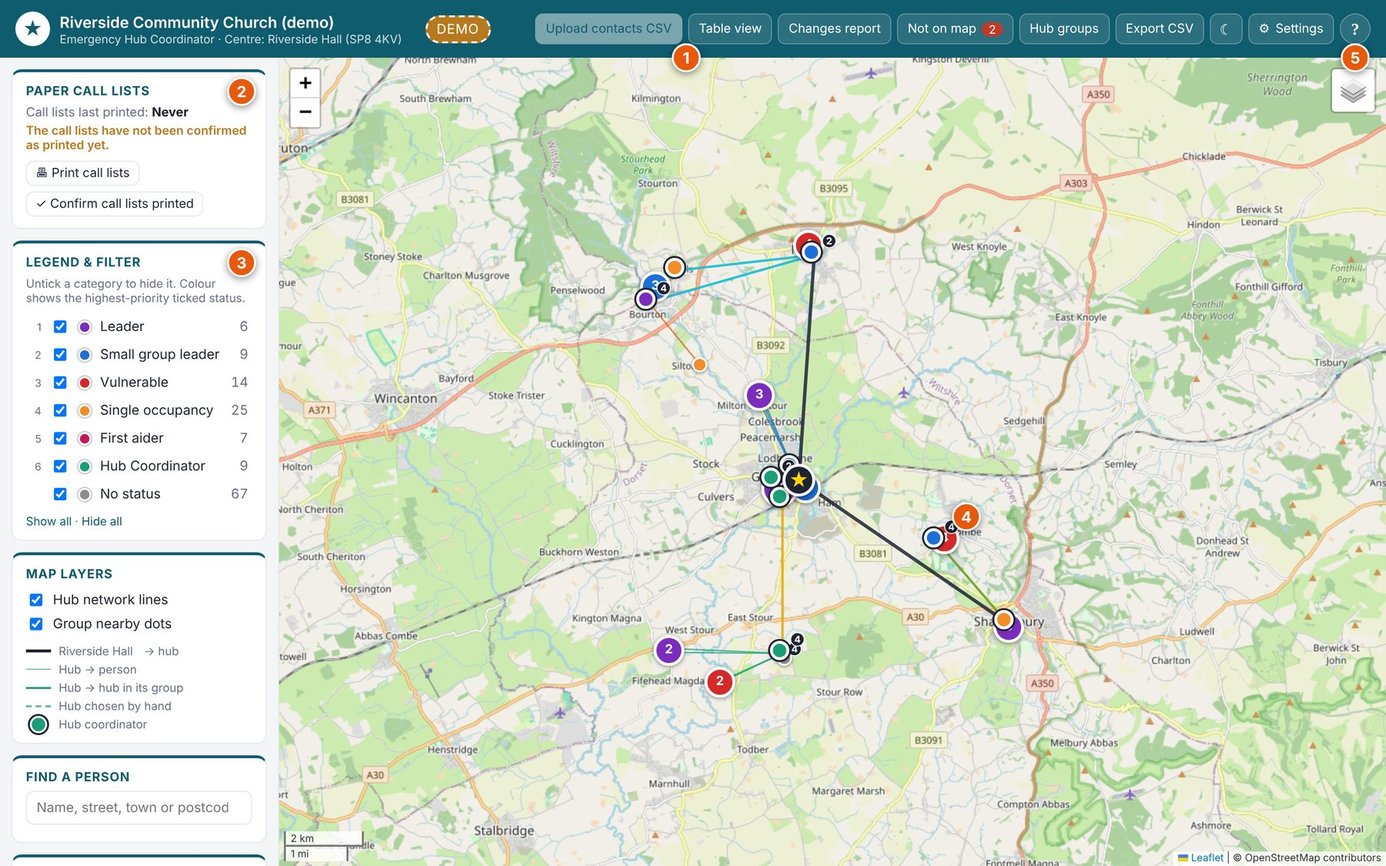
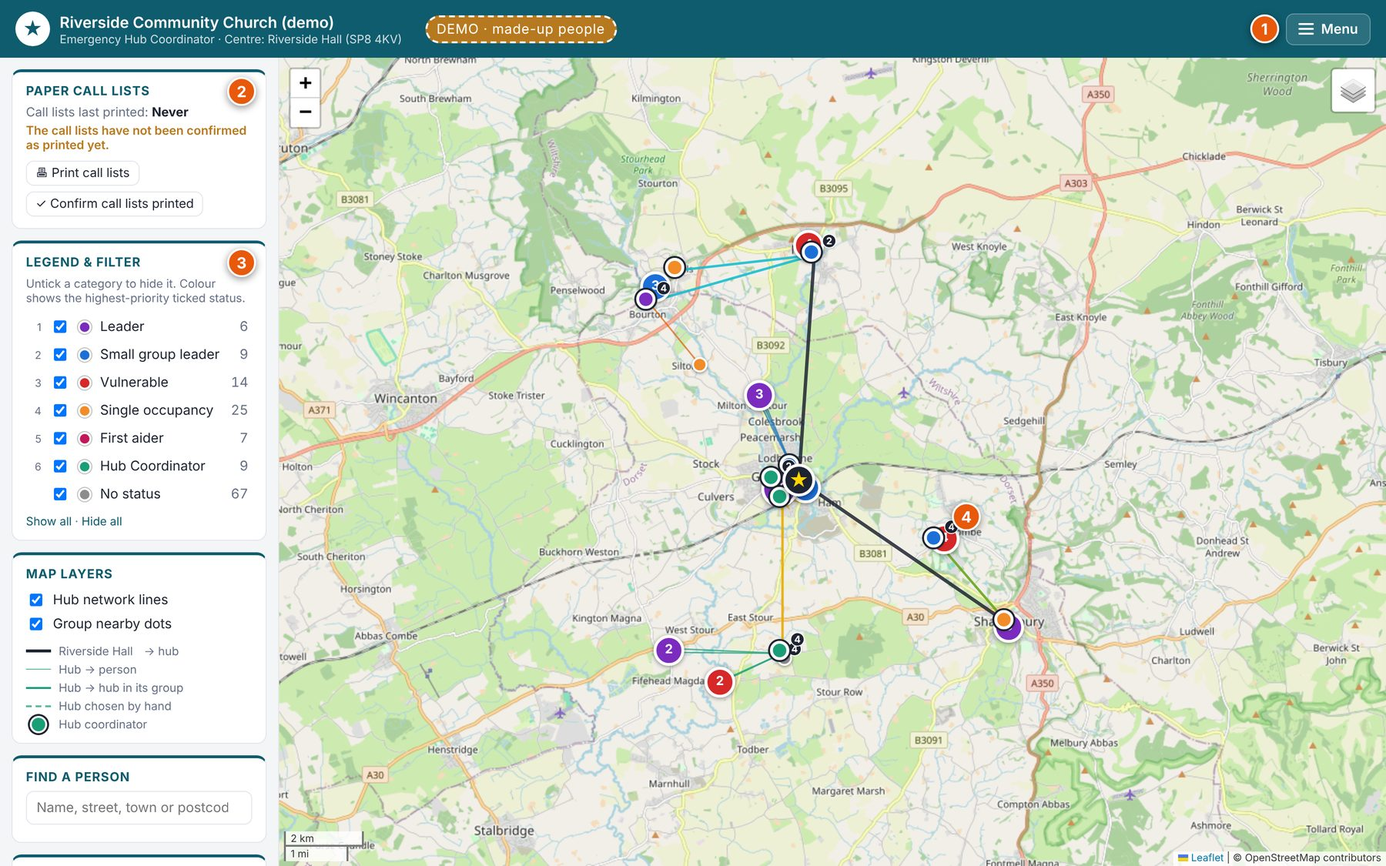
Move the title bar buttons into a menu (1.2.0)
All the title bar buttons now live in one Menu in the top right, grouped
into Contacts, Planning, and Settings / dark mode / lock / help. It works
with the keyboard (arrow keys, Home/End, Esc), closes when you click
elsewhere, and shows the update dot. Help text, README and the quick start
screenshots are updated to match.

Claude-Session: https://claude.ai/code/session_012zfS9wvSQnExLN71sEG4rP

Changed region(s): [[0.3422, 0.0, 0.9956, 0.0933]]

diff --git a/app/static/help.js b/app/static/help.js
@@ -20,6 +20,9 @@
         <p>The first time the app opens, it shows a made-up church called Riverside Community Church. Nobody in it is real, so you can click around,
         tick boxes and move people between hubs without worrying about anything. The orange <b>DEMO</b> badge in the title bar tells you when you're looking at it.</p>
         {{fig:overview}}
+        <p>Everything else lives in the <b>Menu</b> button in the top right corner: bringing in contacts, the hub groups, the table view, reports,
+        settings and this help.</p>
+        {{fig:menu}}
         <p>Click a dot to see who lives there and open their card. Where dots are close together they're gathered into a numbered circle,
         and clicking that splits it into the separate households. The lines show the plan: a thick line from the church to each hub coordinator, then thinner lines from each
         hub coordinator to the people they'll phone.</p>`,
@@ -53,16 +56,16 @@
         <p>There are two ways to do this.</p>
         <ul>
           <li><b>Upload a CSV file.</b> Export your address list from your church database or spreadsheet as a CSV file, then click
-          <b>Upload contacts CSV</b> in the title bar or drag the file onto the page. First and last names are essential, and addresses,
+          <b>Upload contacts CSV</b> in the menu, or drag the file onto the page. First and last names are essential, and addresses,
           postcodes and phone numbers make it useful. There's an example, <i>contacts-template.csv</i>, in the <i>app</i> folder,
           and the FAQ explains <a data-faq="csv">which columns it understands</a>.</li>
           <li><b>Connect ChurchSuite.</b> If your church uses ChurchSuite, the app can fetch the list for you. You set it up once in
           <a data-act="settings:data">Settings &rarr; Data &amp; privacy</a>, choose which tags to include, and from then on click
-          <b>Sync from ChurchSuite</b> whenever you want the latest list. The FAQ has <a data-faq="churchsuite">step-by-step instructions for connecting it</a>.</li>
+          <b>Sync from ChurchSuite</b> in the menu whenever you want the latest list. The FAQ has <a data-faq="churchsuite">step-by-step instructions for connecting it</a>.</li>
         </ul>
         <p>Either way, the app looks up each postcode to put people on the map, then shows you a report of who was added, removed or changed.</p>
         {{fig:changes-report}}
-        <p>Afterwards, click <a data-act="unmapped">Not on map</a> in the title bar. It lists anyone the app couldn't place, usually because of a missing or
+        <p>Afterwards, choose <a data-act="unmapped">Not on map</a> from the menu. It lists anyone the app couldn't place, usually because of a missing or
         mistyped postcode. Fix the address in your church database so it's right next time, or open the person's card and use <b>Place on map by hand</b>.</p>`,
     },
     {
@@ -127,12 +130,12 @@
     overview: {
       src: 'help/overview.jpg', alt: 'The main screen showing the demo church on a map',
       caption: `<ol class="help-callouts">
-        <li>The title bar, for bringing in contacts, the table view, reports, hub groups and settings.</li>
+        <li>The menu, for bringing in contacts, hub groups, the table view, reports, settings and help.</li>
         <li>The Paper call lists box, with the date the lists were last printed.</li>
         <li>The legend. Untick a status to hide those people from the map.</li>
-        <li>Each dot is a household, coloured by the most important status of anyone living there.</li>
-        <li>Help, which is where you are now.</li></ol>`,
+        <li>Each dot is a household, coloured by the most important status of anyone living there.</li></ol>`,
     },
+    menu: { w: 300, src: 'help/menu.jpg', alt: 'The menu open, listing everything the app can do', caption: 'The menu, opened from the top right corner.' },
     'demo-switch': { src: 'help/demo-switch.jpg', alt: 'The Demo mode section of the settings', caption: 'The demo switch is at the top of the Data &amp; privacy tab.' },
     'settings-org': { src: 'help/settings-org.jpg', alt: 'The Organisation details tab of the settings', caption: 'Your church\'s name, logo and central hub.' },
     'changes-report': { src: 'help/changes-report.jpg', alt: 'A changes report after loading a contact list', caption: 'After every upload or sync you get a report like this. Older ones are kept under Changes report.' },
@@ -166,7 +169,7 @@
           id: 'backup', q: 'How should we back it up?',
           a: `<p>Copy the whole <b>data</b> folder somewhere safe, ideally an encrypted USB stick or another computer you trust. To restore it, close the black
             server window, copy the folder back and start the app again.</p>
-            <p><b>Export CSV</b> in the title bar also gives you a spreadsheet of everyone with their statuses, hub and notes. That's handy for checking things,
+            <p><b>Export CSV</b> in the menu also gives you a spreadsheet of everyone with their statuses, hub and notes. That's handy for checking things,
             but the file isn't encrypted, so delete it when you've finished with it.</p>`,
         },
         {
@@ -174,7 +177,7 @@
           a: `<p>If you're recording anything sensitive, such as who is vulnerable, then yes. Encryption scrambles the files in the data folder (including the
             backups and your ChurchSuite details), so they're useless to anyone who gets hold of the computer or its drive.</p>
             <p>Once it's on, the app asks for the passphrase each time it starts, and locks itself if nobody uses it for a while (30 minutes unless you change it).
-            You can also lock it straight away with the padlock button. Turn it on in <a data-act="settings:data">Settings &rarr; Data &amp; privacy</a>.</p>`,
+            You can also lock it straight away with <b>Lock now</b> in the menu. Turn it on in <a data-act="settings:data">Settings &rarr; Data &amp; privacy</a>.</p>`,
         },
         {
           id: 'forgot', q: 'What happens if we forget the passphrase?',
@@ -246,7 +249,7 @@
             <b>Client ID</b> and <b>Client Secret</b> for that user. Paste both into <a data-act="settings:data">Settings &rarr; Data &amp; privacy</a> and click
             <b>Connect to ChurchSuite</b>.</p>
             <p>The app then shows your ChurchSuite tags. Tick the ones that should be included (anyone with any ticked tag is fetched), and use
-            <b>Sync from ChurchSuite</b> in the title bar whenever you want the latest list. The link only reads from ChurchSuite and never changes anything there.
+            <b>Sync from ChurchSuite</b> in the menu whenever you want the latest list. The link only reads from ChurchSuite and never changes anything there.
             The secret is stored on this computer only.</p>`,
         },
         {
@@ -284,7 +287,7 @@
         },
         {
           id: 'not-on-map', q: 'Why isn\'t someone on the map?',
-          a: `<p>Usually their postcode is missing, mistyped or out of date. <a data-act="unmapped">Not on map</a> in the title bar lists everyone who couldn't be
+          a: `<p>Usually their postcode is missing, mistyped or out of date. <a data-act="unmapped">Not on map</a> in the menu lists everyone who couldn't be
             placed, along with anyone whose position is only approximate. The best fix is to correct the address in your church database, so it's right on the
             next upload. For a quick fix, open their card and use <b>Place on map by hand</b>, then click where they live.</p>`,
         },
@@ -308,8 +311,8 @@
         },
         {
           id: 'map-style', q: 'Can I see a satellite view, or a dark map?',
-          a: `<p>Use the layers button in the top right corner of the map to switch between the street map and satellite. The moon and sun button in the title bar
-            switches between light and dark. In <a data-act="settings:look">Settings &rarr; Look and feel</a> you can keep the map light while the rest goes dark,
+          a: `<p>Use the layers button in the top right corner of the map to switch between the street map and satellite. <b>Dark mode</b> (or <b>Light mode</b>) in the menu
+            switches between the two. In <a data-act="settings:look">Settings &rarr; Look and feel</a> you can keep the map light while the rest goes dark,
             or the other way round.</p>`,
         },
       ],
@@ -394,7 +397,7 @@
       items: [
         {
           id: 'updates', q: 'How do I get new versions?',
-          a: `<p>The app checks once a day whether a new version has been published, and when there is one, an orange dot appears on the Settings button.
+          a: `<p>The app checks once a day whether a new version has been published, and when there is one, an orange dot appears on the Menu button and next to Settings.
             Go to <a data-act="settings:about">Settings &rarr; About &amp; updates</a> to read what's new and click <b>Install</b>. It downloads the new version,
             restarts itself and reloads the page, which takes less than a minute. You can also click <b>Check now</b> at any time, or turn the daily check off.</p>`,
         },
@@ -551,7 +554,7 @@
     openModal('Help', render(),
       '<button class="btn small" id="btnPrintQs" title="Print the quick start guide, with pictures">&#128438; Print the quick start guide</button>', 'helpmodal');
     try { localStorage.setItem('ehc.helpSeen', '1'); } catch (e) { /* ignore */ }
-    $('btnHelp').classList.remove('pulse');
+    $('btnMenu').classList.remove('pulse');
     const body = $('modalBody');
     body.querySelectorAll('[data-help-tab]').forEach((b) => b.addEventListener('click', () => setTab(b.dataset.helpTab)));
     body.addEventListener('click', (e) => {
@@ -608,7 +611,7 @@
       <div class="qs-intro">${stripLinks(QUICK_START_INTRO)}</div>
       <ol class="qs-toc">${QUICK_START.map((s) => `<li>${s.title}</li>`).join('')}</ol>
       ${QUICK_START.map((s, i) => `<section class="qs-step"><h2><span class="qs-num">${i + 1}</span>${s.title}</h2>${stripLinks(fill(s.html, true))}</section>`).join('')}
-      <div class="qs-outro">${stripLinks(QUICK_START_OUTRO).replace('The FAQ', 'The FAQ in the app (the ? button)')}</div>
+      <div class="qs-outro">${stripLinks(QUICK_START_OUTRO).replace('The FAQ', 'The FAQ in the app (Menu, then Help and quick start)')}</div>
     </div>`;
     const theme = document.documentElement.dataset.theme;
     document.documentElement.dataset.theme = 'light';
@@ -630,6 +633,6 @@
   btn.addEventListener('click', () => openHelp());
   const eh = $('btnEmptyHelp');
   if (eh) eh.addEventListener('click', () => openHelp('quick'));
-  try { if (!localStorage.getItem('ehc.helpSeen')) btn.classList.add('pulse'); } catch (e) { /* ignore */ }
+  try { if (!localStorage.getItem('ehc.helpSeen')) $('btnMenu').classList.add('pulse'); } catch (e) { /* ignore */ }
   window.EHCHelp = { open: openHelp, openFaq: (id) => { openHelp('faq'); openFaq(id); }, printQuickStart };
 }());

diff --git a/app/static/app.js b/app/static/app.js
@@ -239,8 +239,10 @@ function applyTheme(theme) {
   applyMapTheme((SETTINGS && SETTINGS.map_theme) || 'auto', theme);
   const dark = theme === 'dark';
   applyAccent((SETTINGS && SETTINGS.accent_color) || '#23395D', theme);
-  $('btnTheme').innerHTML = dark ? '&#9728;' : '&#9790;';
-  $('btnTheme').title = dark ? 'Switch to light mode' : 'Switch to dark mode';
+  $('btnTheme').querySelector('.mi-text').textContent = dark ? 'Light mode' : 'Dark mode';
+  $('btnTheme').querySelector('.mi-ic').innerHTML = dark
+    ? '<circle cx="12" cy="12" r="4"/><path d="M12 2.5v2M12 19.5v2M2.5 12h2M19.5 12h2M5.3 5.3l1.4 1.4M17.3 17.3l1.4 1.4M5.3 18.7l1.4-1.4M17.3 6.7l1.4-1.4"/>'
+    : '<path d="M20 14.5A8 8 0 1 1 9.5 4a6.5 6.5 0 0 0 10.5 10.5z"/>';
 }
 
 function applyMapTheme(mapTheme, theme) {
@@ -459,10 +461,10 @@ function applyState(s) {
     $(id).disabled = demo;
     $(id).title = demo ? 'Not available in the demo - turn the demo off in Settings to upload your real list' : '';
   });
+  $('uploadNote').hidden = !demo;
   const csOn = !!(s.churchsuite && s.churchsuite.configured);
   $('btnSync').hidden = !csOn;
-  $('btnUpload').classList.toggle('primary', !csOn);
-  $('btnUpload').textContent = csOn ? 'Upload CSV' : 'Upload contacts CSV';
+  $('btnUploadLabel').textContent = csOn ? 'Upload a CSV file' : 'Upload contacts CSV';
   if (s.settings) {
     SETTINGS = s.settings;
     COLORS = Object.assign({}, s.settings.status_colors);
@@ -1475,13 +1477,13 @@ function showSettings(draft) {
     </section>
     ${demoOff('CSV upload')}
       <h3>CSV upload${demoChip}</h3>
-      <p class="muted">Without a connection, use <b>Upload contacts CSV</b> in the title bar. The file must be a complete export with the columns
+      <p class="muted">Without a connection, use <b>Upload contacts CSV</b> in the menu. The file must be a complete export with the columns
         First Name, Last Name, Address 1, Address 2, Town/City, County, Postcode, Country, Telephone, Mobile, Email.</p>
     </section>
     ${demoOff('Encryption')}
       <h3>Encryption${demoChip} ${(STATE.security || {}).encrypted ? '<span class="chip" style="background:var(--ok)">On</span>' : '<span class="chip grey">Off</span>'}</h3>
       ${(STATE.security || {}).encrypted ? `
-      <p class="muted">The data folder is encrypted. The app asks for the passphrase when it starts, after the lock button (&#128274;) is pressed,
+      <p class="muted">The data folder is encrypted. The app asks for the passphrase when it starts, after <b>Lock now</b> in the menu is clicked,
         and after it has not been used for the auto-lock time.</p>
       <div class="form-grid">
         <label>Lock automatically after<select id="setAutoLock">${[[0, 'Never'], [10, '10 minutes'], [30, '30 minutes'], [60, '1 hour'], [120, '2 hours'], [240, '4 hours']]
@@ -1548,7 +1550,7 @@ function showSettings(draft) {
           <label><input type="radio" name="mapTheme" value="dark" ${st.map_theme === 'dark' ? 'checked' : ''}> &#9790; Always dark</label>
         </div>
       </div>
-      <p class="muted" style="margin-top:6px;font-size:12px">The moon/sun button in the title bar switches the interface; the map follows it only when set to &ldquo;Same as the interface&rdquo;. Printouts are always light.</p>
+      <p class="muted" style="margin-top:6px;font-size:12px"><b>Dark mode</b> / <b>Light mode</b> in the menu switches the interface; the map follows it only when set to &ldquo;Same as the interface&rdquo;. Printouts are always light.</p>
       <div class="lg-head" style="margin-top:12px">Map for use without internet</div>
       <p class="muted" style="font-size:12px;margin:2px 0 6px">Every part of the <b>street map</b> you view is kept on this PC and used first, so areas you have already looked at
         (at the zoom levels you looked at them) still show if the internet goes down. To prepare, browse your area and zoom in on the streets you may need.
@@ -2007,7 +2009,8 @@ function checkPageVersion(serverVersion) {
 function showUpdateNotice(u) {
   const on = !!(u && u.available && u.latest);
   $('btnSettings').classList.toggle('has-update', on);
-  $('btnSettings').title = on ? `Settings - version ${u.latest.version} is available` : 'Settings';
+  $('btnMenu').classList.toggle('has-update', on);
+  $('btnMenu').title = on ? `Menu - version ${u.latest.version} is available in Settings` : 'Menu';
   if (!on) return;
   let shown = null;
   try { shown = sessionStorage.getItem('ehc.updateToast'); sessionStorage.setItem('ehc.updateToast', u.latest.version); } catch (e) { /* ignore */ }
@@ -2132,6 +2135,30 @@ function setAllFilters(v) {
   savePref('ehc.filters', filters);
   renderAll(false);
 }
+
+// ------------------------------------------------------------------ the menu (top right)
+function menuItems() { return [...$('mainMenu').querySelectorAll('.mi')].filter((x) => !x.hidden && !x.disabled); }
+function openMenu() {
+  $('mainMenu').hidden = false;
+  $('btnMenu').setAttribute('aria-expanded', 'true');
+  const first = menuItems()[0];
+  if (first) first.focus({ preventScroll: true });
+}
+function closeMenu(focusButton) {
+  if ($('mainMenu').hidden) return;
+  $('mainMenu').hidden = true;
+  $('btnMenu').setAttribute('aria-expanded', 'false');
+  if (focusButton) $('btnMenu').focus();
+}
+$('btnMenu').addEventListener('click', (e) => { e.stopPropagation(); if ($('mainMenu').hidden) openMenu(); else closeMenu(); });
+$('mainMenu').addEventListener('click', (e) => { if (e.target.closest('.mi')) closeMenu(); });
+document.addEventListener('click', (e) => { if (!e.target.closest('.menu-wrap')) closeMenu(); });
+$('mainMenu').addEventListener('keydown', (e) => {
+  const items = menuItems();
+  const i = items.indexOf(document.activeElement);
+  if (e.key === 'Escape') { e.preventDefault(); closeMenu(true); } else if (e.key === 'ArrowDown') { e.preventDefault(); items[(i + 1) % items.length].focus(); } else if (e.key === 'ArrowUp') { e.preventDefault(); items[(i - 1 + items.length) % items.length].focus(); } else if (e.key === 'Home') { e.preventDefault(); items[0].focus(); } else if (e.key === 'End') { e.preventDefault(); items[items.length - 1].focus(); } else if (e.key === 'Tab') closeMenu();
+});
+$('btnMenu').addEventListener('keydown', (e) => { if (e.key === 'ArrowDown') { e.preventDefault(); openMenu(); } });
 
 $('btnUpload').addEventListener('click', () => $('fileInput').click());
 $('btnSync').addEventListener('click', () => syncChurchSuite());

diff --git a/app/static/index.html b/app/static/index.html
@@ -23,18 +23,29 @@
     <button type="button" class="demo-badge" id="demoBadge" hidden title="Everyone shown is made up. Click to turn the demo off in Settings.">DEMO<span class="db-long"> &middot; made-up people</span></button>
   </div>
   <nav class="actions">
-    <button class="btn primary" id="btnSync" hidden title="Fetch the latest contact list from ChurchSuite">&#8635; Sync from ChurchSuite</button>
-    <button class="btn primary" id="btnUpload">Upload contacts CSV</button>
     <input type="file" id="fileInput" accept=".csv,text/csv" hidden>
-    <button class="btn" id="btnTable">Table view</button>
-    <button class="btn" id="btnReport">Changes report</button>
-    <button class="btn" id="btnUnmapped">Not on map <span class="badge" id="unmappedBadge">0</span></button>
-    <button class="btn" id="btnHubs">Hub groups</button>
-    <a class="btn" id="btnExport" href="/api/export.csv">Export CSV</a>
-    <button class="btn icon" id="btnLock" hidden title="Lock now - the passphrase is needed to open it again" aria-label="Lock">&#128274;</button>
-    <button class="btn icon" id="btnTheme" title="Switch to dark mode" aria-label="Switch between light and dark mode">&#9790;</button>
-    <button class="btn" id="btnSettings" title="Settings">&#9881;<span class="btn-label"> Settings</span></button>
-    <button class="btn icon help-btn" id="btnHelp" title="Help: quick start guide and questions" aria-label="Help">?</button>
+    <div class="menu-wrap">
+      <button type="button" class="btn menu-btn" id="btnMenu" aria-haspopup="menu" aria-expanded="false" aria-controls="mainMenu" title="Menu">
+        <span class="hamburger" aria-hidden="true"><i></i><i></i><i></i></span><span class="menu-label">Menu</span>
+      </button>
+      <div class="menu-panel" id="mainMenu" role="menu" aria-label="Menu" hidden>
+        <div class="menu-group" role="presentation">Contacts</div>
+        <button type="button" class="mi" role="menuitem" id="btnSync" hidden><svg class="mi-ic" viewBox="0 0 24 24" aria-hidden="true"><path d="M20 12a8 8 0 0 1-14.2 5"/><path d="M4 12a8 8 0 0 1 14.2-5"/><path d="M18.5 3v4.2h-4.2"/><path d="M5.5 21v-4.2h4.2"/></svg><span class="mi-text">Sync from ChurchSuite</span></button>
+        <button type="button" class="mi" role="menuitem" id="btnUpload"><svg class="mi-ic" viewBox="0 0 24 24" aria-hidden="true"><path d="M12 16V4"/><path d="M7 9l5-5 5 5"/><path d="M4 20h16"/></svg><span class="mi-text" id="btnUploadLabel">Upload contacts CSV</span><small class="mi-note" id="uploadNote" hidden>Not in demo</small></button>
+        <a class="mi" role="menuitem" id="btnExport" href="/api/export.csv"><svg class="mi-ic" viewBox="0 0 24 24" aria-hidden="true"><path d="M12 4v12"/><path d="M7 11l5 5 5-5"/><path d="M4 20h16"/></svg><span class="mi-text">Export CSV</span></a>
+        <div class="menu-sep" role="separator"></div>
+        <div class="menu-group" role="presentation">Planning</div>
+        <button type="button" class="mi" role="menuitem" id="btnHubs"><svg class="mi-ic" viewBox="0 0 24 24" aria-hidden="true"><circle cx="12" cy="12" r="2.6"/><circle cx="4.5" cy="6" r="2"/><circle cx="19.5" cy="6" r="2"/><circle cx="12" cy="20.5" r="2"/><path d="M6.3 7.2l3.6 3.2M17.7 7.2l-3.6 3.2M12 14.6v3.9"/></svg><span class="mi-text">Hub groups</span></button>
+        <button type="button" class="mi" role="menuitem" id="btnTable"><svg class="mi-ic" viewBox="0 0 24 24" aria-hidden="true"><rect x="3" y="4" width="18" height="16" rx="2"/><path d="M3 10h18M3 15h18M9 10v10"/></svg><span class="mi-text">Table view</span></button>
+        <button type="button" class="mi" role="menuitem" id="btnUnmapped"><svg class="mi-ic" viewBox="0 0 24 24" aria-hidden="true"><path d="M12 21s-6.5-5.8-6.5-11.2a6.5 6.5 0 0 1 13 0C18.5 15.2 12 21 12 21z"/><circle cx="12" cy="9.8" r="2.3"/><path d="M3.5 3.5l17 17"/></svg><span class="mi-text">Not on map</span><span class="badge" id="unmappedBadge">0</span></button>
+        <button type="button" class="mi" role="menuitem" id="btnReport"><svg class="mi-ic" viewBox="0 0 24 24" aria-hidden="true"><path d="M7 3h7l4 4v14H7z"/><path d="M14 3v4h4"/><path d="M9.5 12h6M9.5 16h6"/></svg><span class="mi-text">Changes report</span></button>
+        <div class="menu-sep" role="separator"></div>
+        <button type="button" class="mi" role="menuitem" id="btnSettings"><svg class="mi-ic" viewBox="0 0 24 24" aria-hidden="true"><path d="M4 6h9M17 6h3M4 12h3M11 12h9M4 18h11M19 18h1"/><circle cx="15" cy="6" r="2"/><circle cx="9" cy="12" r="2"/><circle cx="17" cy="18" r="2"/></svg><span class="mi-text">Settings</span><span class="mi-dot" aria-hidden="true"></span></button>
+        <button type="button" class="mi" role="menuitem" id="btnTheme"><svg class="mi-ic" viewBox="0 0 24 24" aria-hidden="true"><path d="M20 14.5A8 8 0 1 1 9.5 4a6.5 6.5 0 0 0 10.5 10.5z"/></svg><span class="mi-text">Dark mode</span></button>
+        <button type="button" class="mi" role="menuitem" id="btnLock" hidden><svg class="mi-ic" viewBox="0 0 24 24" aria-hidden="true"><rect x="5" y="11" width="14" height="10" rx="2"/><path d="M8 11V8a4 4 0 0 1 8 0v3"/></svg><span class="mi-text">Lock now</span></button>
+        <button type="button" class="mi" role="menuitem" id="btnHelp"><svg class="mi-ic" viewBox="0 0 24 24" aria-hidden="true"><circle cx="12" cy="12" r="9"/><path d="M9.6 9.2a2.5 2.5 0 1 1 3.4 2.3c-.7.3-1 .9-1 1.6v.4"/><path d="M12 17h.01"/></svg><span class="mi-text">Help and quick start</span></button>
+      </div>
+    </div>
   </nav>
 </header>
 

diff --git a/app/static/style.css b/app/static/style.css
@@ -551,7 +551,7 @@ table.data tr.clickable:hover td { background: #f5f8fc; }
 }
 .demo-badge { flex: none; }
 .demo-badge .db-long { display: inline; }
-@media (max-width: 1540px) { .demo-badge .db-long { display: none; } }
+@media (max-width: 900px) { .demo-badge .db-long { display: none; } }
 @media print { html { background: #fff !important; } }
 @media (max-width: 1400px) { #btnSettings .btn-label { display: none; } }
 
@@ -568,3 +568,34 @@ table.data tr.clickable:hover td { background: #f5f8fc; }
 .update-notes ul { margin: 0 0 8px; padding-left: 20px; }
 .update-ok { color: var(--ok); font-weight: 600; }
 a.btn { text-decoration: none; }
+
+/* ---------- the menu in the top right */
+.menu-wrap { position: relative; }
+.topbar .btn.menu-btn { gap: 8px; padding: 7px 12px; font-size: 14px; font-weight: 600; }
+.hamburger { display: inline-grid; gap: 3px; width: 16px; }
+.hamburger i { display: block; height: 2px; border-radius: 2px; background: currentColor; }
+.menu-btn[aria-expanded="true"] { background: color-mix(in srgb, var(--accent-ink, #fff) 24%, transparent); }
+.menu-btn.has-update { position: relative; }
+.menu-btn.has-update::after, #btnSettings.has-update::after { content: none; }
+.menu-btn.has-update::before { content: ""; position: absolute; top: -3px; right: -3px; width: 11px; height: 11px; border-radius: 50%;
+  background: #F59F00; box-shadow: 0 0 0 2px var(--accent); }
+.menu-btn.pulse { animation: helpPulse 2s ease-out 3; }
+.menu-panel { position: absolute; top: calc(100% + 8px); right: 0; z-index: 1200; width: 290px; padding: 6px;
+  background: var(--panel); color: var(--ink); border: 1px solid var(--line); border-radius: 12px; box-shadow: var(--shadow); }
+.menu-group { font-size: 11px; font-weight: 700; text-transform: uppercase; letter-spacing: .06em; color: var(--muted); padding: 8px 10px 4px; }
+.menu-sep { height: 1px; background: var(--line); margin: 6px 4px; }
+.mi { display: flex; align-items: center; gap: 11px; width: 100%; padding: 8px 10px; border: 0; border-radius: 8px; background: none;
+  color: inherit; font: inherit; font-size: 14px; text-align: left; text-decoration: none; cursor: pointer; }
+.mi:hover, .mi:focus-visible { background: var(--hover); outline: none; }
+.mi:focus-visible { box-shadow: inset 0 0 0 2px var(--accent-2); }
+.mi:disabled { opacity: .5; cursor: not-allowed; }
+.mi[hidden] { display: none; }
+.mi-ic { width: 18px; height: 18px; flex: none; fill: none; stroke: currentColor; stroke-width: 1.8; stroke-linecap: round; stroke-linejoin: round; color: var(--muted); }
+.mi:hover .mi-ic { color: var(--accent-2); }
+.mi-text { flex: 1; }
+.mi-note { font-size: 11px; color: var(--muted); }
+.mi .badge { margin-left: auto; }
+.mi .badge.zero { display: none; }
+.mi-dot { display: none; width: 9px; height: 9px; border-radius: 50%; background: #F59F00; }
+#btnSettings.has-update .mi-dot { display: inline-block; }
+@media (max-width: 600px) { .menu-label { display: none; } }

diff --git a/README.md b/README.md
@@ -29,7 +29,7 @@ Emergency Hub Coordinator\
 ```
 
 `data` appears the first time you start it. Nothing else needs installing. It opens in demo mode the
-first time, and the **?** button in the top right has a quick start guide.
+first time. Everything is in the **Menu** button in the top right, including **Help and quick start**.
 
 If Windows shows "Windows protected your PC", click **More info** then **Run anyway**. It does that for
 programs from the internet that aren't signed by a software company.
@@ -37,7 +37,7 @@ programs from the internet that aren't signed by a software company.
 ## Updating
 
 The app checks once a day for a new version (you can turn this off). When there is one, an orange dot
-appears on the Settings button. **Settings → About & updates** shows what's new and installs it with one
+appears on the Menu button. **Settings → About & updates** shows what's new and installs it with one
 click: the app downloads the update, checks it against the SHA-256 fingerprint published with the
 release, keeps the current version so you can go back, puts the new files in place and restarts.
 
@@ -90,9 +90,9 @@ A new installation opens in **demo mode**: a made-up church ("Riverside Communit
 | People not on the map | **Not on map** lists anyone whose address is missing, incomplete or not recognised, plus anyone whose position is only approximate. You can also **Place on map by hand**. |
 | Call lists | **Hub groups** lists each hub's people with their phone numbers. You can print it. |
 | Grouping levels | For larger organisations, set **Grouping levels** in Settings to 2 or more. A level 2 hub coordinator belongs to the group of the nearest level 1 hub coordinator, and so on down. Everyone else joins their nearest hub coordinator of any level. Set each hub coordinator's level on their card or in Table view. Each group and call list shows only the people directly in it. |
-| Settings | **Settings** (top right) sets your organisation's name and logo for the title bar (each can be hidden), light or dark mode, the central hub's name, location (by postcode, or by clicking a spot on the map) and marker (colour, size, and a star, your logo or another image), the status colours, dot size, line widths and line colours. The moon/sun button switches dark mode. Settings are saved in the `data` folder, so they move with it. |
+| Settings | **Settings** (in the menu, top right) sets your organisation's name and logo for the title bar (each can be hidden), light or dark mode, the central hub's name, location (by postcode, or by clicking a spot on the map) and marker (colour, size, and a star, your logo or another image), the status colours, dot size, line widths and line colours. **Dark mode** / **Light mode** in the menu switches between them. Settings are saved in the `data` folder, so they move with it. |
 | Statuses | **Settings → Statuses** lets you rename, recolour, reorder (priority), add and remove statuses. Hub Coordinator can be renamed but not removed. |
-| Encryption | **Settings → Data & privacy → Encryption** encrypts the contact data, backups and ChurchSuite details with a passphrase (at least 12 characters). The app then asks for it when it starts, when the 🔒 button is pressed and after the auto-lock time. **If the passphrase is lost the data cannot be recovered.** |
+| Encryption | **Settings → Data & privacy → Encryption** encrypts the contact data, backups and ChurchSuite details with a passphrase (at least 12 characters). The app then asks for it when it starts, when **Lock now** in the menu is clicked and after the auto-lock time. **If the passphrase is lost the data cannot be recovered.** |
 | Data Protection Pack | **Settings → Data & privacy → Create Data Protection Pack** downloads a PDF in your branding explaining your responsibilities under UK data protection law, with a privacy notice paragraph, a risk assessment outline, a hub coordinator confidentiality agreement and checklists. General guidance, not legal advice. |
 | Map without internet | Every part of the street map you view is stored on this PC (in `data/tiles`, up to 500 MB) and used first, so areas you have looked at still show if the internet is down. Browse and zoom in on your area beforehand. The satellite view always needs the internet. Clear the stored map in Settings → Look and feel. (OpenStreetMap's rules don't allow downloading whole areas in advance.) |
 | Backup / spreadsheet | **Export CSV** downloads everyone with their statuses, hub and notes. |

diff --git a/CHANGELOG.md b/CHANGELOG.md
@@ -2,6 +2,12 @@
 
 Each version's notes appear in the app under **Settings → About & updates** when it's available.
 
+## [1.2.0] - 2026-11-14
+
+- A tidier title bar: all the buttons now live in one **Menu** in the top right corner, grouped into Contacts (sync, upload, export), Planning (hub groups, table view, not on map, changes report), and Settings, dark mode, lock and help.
+- The menu works with the keyboard too: the arrow keys move through it and Esc closes it.
+- When a new version is available, the orange dot now appears on the Menu button.
+
 ## [1.1.1] - 2026-11-14
 
 - If Emergency Hub is already open in another window, starting it again now says so (and opens it in your browser) instead of showing a "page can't be found" error. If an older copy is still running, it tells you to close that window first.
